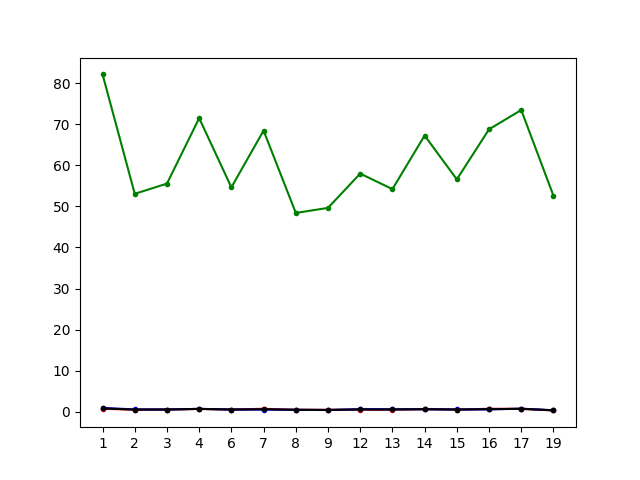
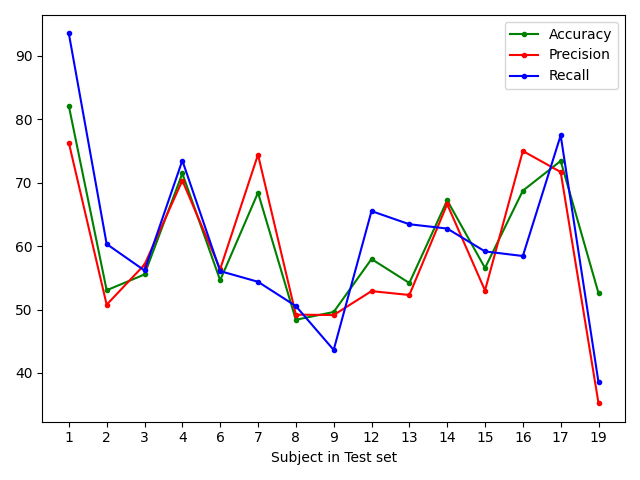
updated

diff --git a/plot_test_acc.py b/plot_test_acc.py
@@ -74,8 +74,8 @@ for i, dataset in enumerate(datasets):
         correct = len(correct_pred)
         total   = len(results['label'])
         acc[train_idx]      = correct/total*100.
-        precis[train_idx]   = precision
-        recalls[train_idx]  = recall
+        precis[train_idx]   = precision*100
+        recalls[train_idx]  = recall*100
         f1scores[train_idx] = f1score
         data_r = np.append(data_r, np.array([[train_idx, acc[train_idx], precision, recall, f1score]]), axis = 0)
 
@@ -124,9 +124,12 @@ plt.close()
 
 plt.figure(11)
 plt.plot([str(key_val) for key_val in acc.keys()], list(acc.values()),          '-g.', label='Accuracy')
-plt.plot([str(key_val) for key_val in precis.keys()], list(precis.values()),   '-r.', label='Precision')
+plt.plot([str(key_val) for key_val in precis.keys()], list(precis.values()),    '-r.', label='Precision')
 plt.plot([str(key_val) for key_val in recalls.keys()], list(recalls.values()),  '-b.', label='Recall')
-plt.plot([str(key_val) for key_val in f1scores.keys()], list(f1scores.values()),'-k.', label='F1-Score')
+#plt.plot([str(key_val) for key_val in f1scores.keys()], list(f1scores.values()),'-k.', label='F1-Score')
+plt.xlabel("Subject in Test set")
+plt.legend()
+plt.tight_layout()
 plt.savefig('./Figs/multi_acc.png')
 plt.close()
 
